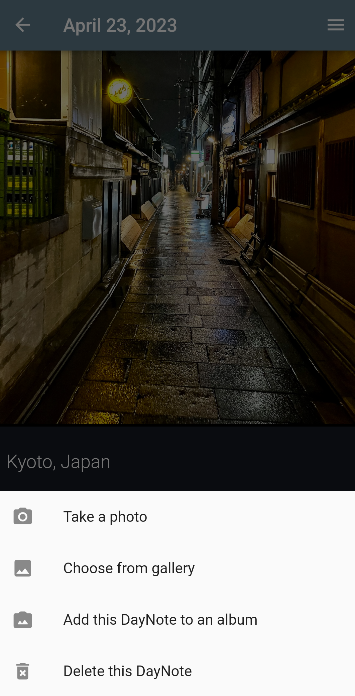
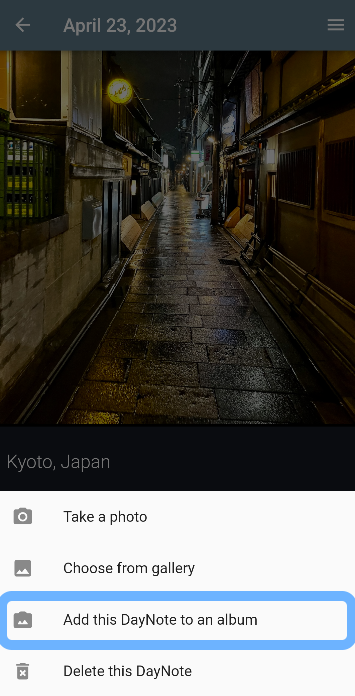
Tutorials for albums

Changed region(s): [[0.0, 0.8448, 1.0, 0.9353]]

diff --git a/lib/screens/onboarding.dart b/lib/screens/onboarding.dart
@@ -31,6 +31,16 @@ class _OnboardingScreenState extends State<OnboardingScreen> {
         description:
             "Awesome! Now you can scroll down and tap below the photo to start typing a note. Notes are automatically saved as you type.",
         image: "assets/images/step3.png"),
+    OnboardPage(
+        title: "Create an album",
+        description:
+            "To create a new album, tap the plus icon at the top right of the screen",
+        image: "assets/images/albumStep2.png"),
+    OnboardPage(
+        title: "Add to an album",
+        description:
+            'If you want to add a DayNote to an album, tap the bottom right photo button, and tap "Add this DayNote to an album"',
+        image: "assets/images/albumStep1.png"),
   ];
 
   @override
